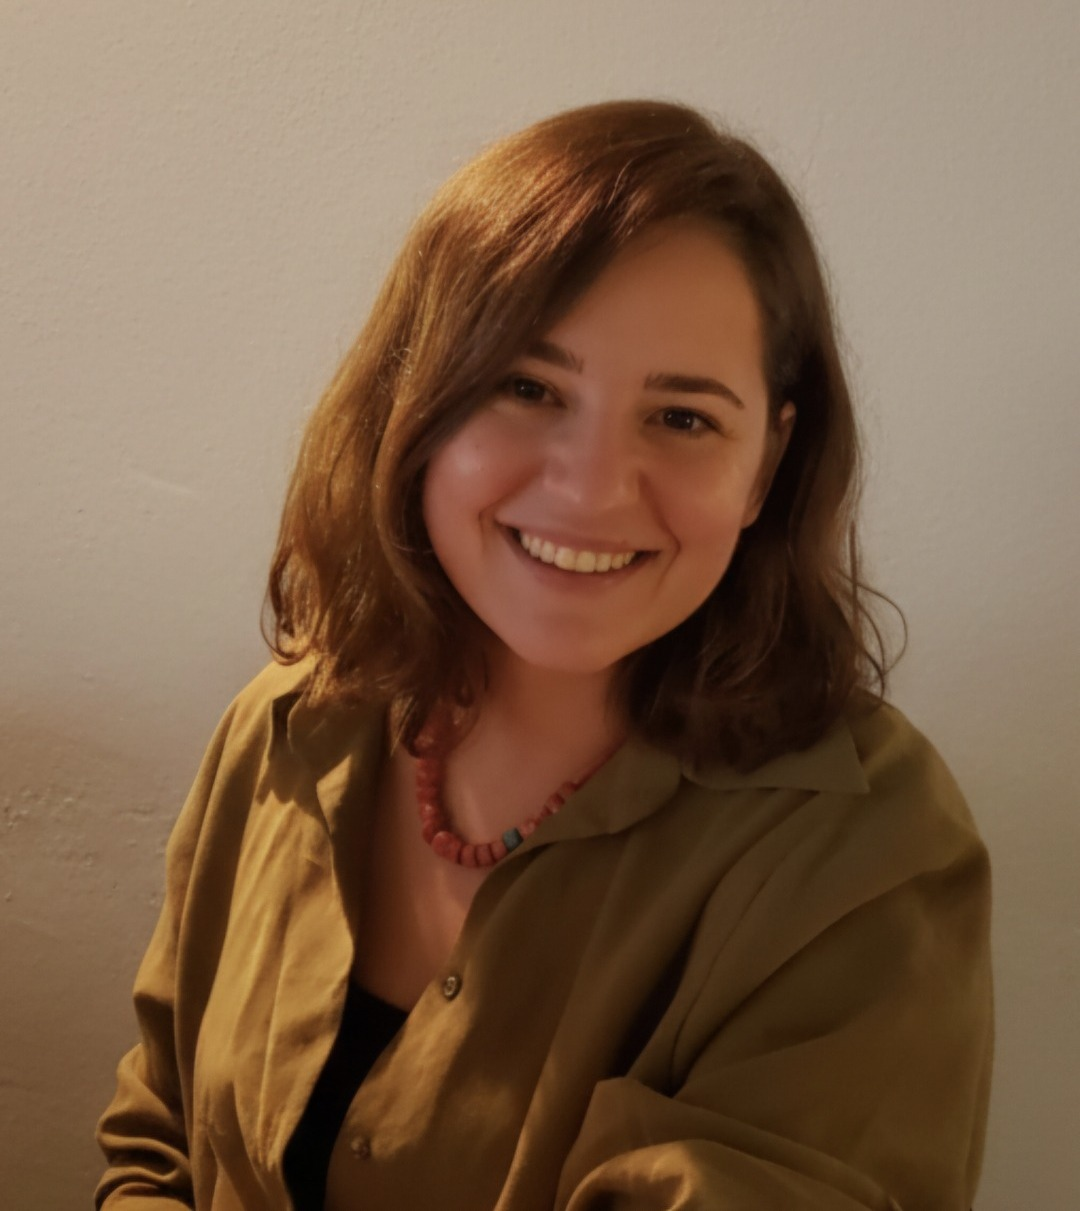
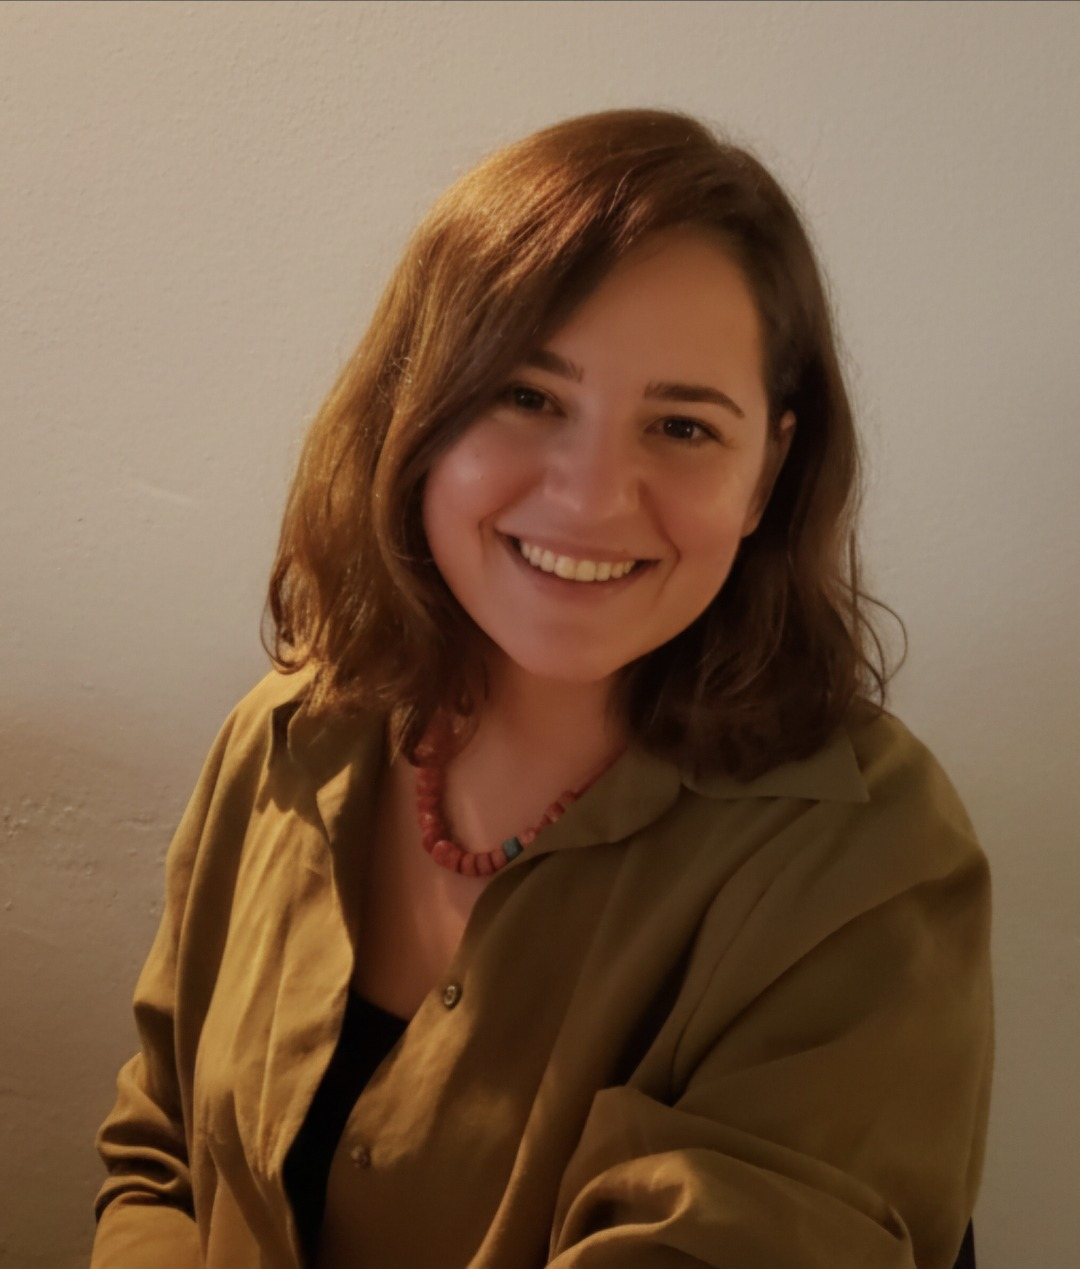
Gercek fotografla entegre kapak sablonu
- Didem'in portresi bulundu (yuklenen dosyalardan), siyah seritler kirpildi,
  .claude/assets/foto/didem-portre.jpg olarak kaydedildi
- karusel-kapak-foto-buyuk: buyuk entegre foto + blob + onizleme kartlari +
  iki renkli kalin baslik (techwith.ram referansindan, marka paletiyle)
- brand.css: .foto-blob, .blob, .foto-buyuk bilesenleri eklendi

Claude-Session: https://claude.ai/code/session_012LDHAuJWzUWKPnKFVYKoxF

diff --git a/.claude/templates/karusel-kapak-foto-buyuk.html b/.claude/templates/karusel-kapak-foto-buyuk.html
@@ -1,0 +1,32 @@
+<!-- KARUSEL KAPAK — FOTOGRAF + BLOB + ONIZLEME.
+     Referans: techwith.ram tarzi (buyuk entegre foto, kalin iki renkli baslik,
+     onizleme kartlari) ama Grow with Tech paletiyle (Quicksand, mor/sari, uydurma
+     logo yok). Foto: .claude/assets/foto/didem-portre.jpg -->
+<!doctype html><html lang="tr"><head><meta charset="utf-8">
+<link rel="stylesheet" href="brand.css"></head><body>
+<div class="slayt tema-mor foto-blob">
+  <div class="blob" style="width:620px;height:620px;right:-140px;top:120px"></div>
+
+  <div class="ilerleme">
+    <div class="cizgiler"><div class="c1"></div><div class="c2"></div></div>
+    <div class="rozet">1/7</div>
+  </div>
+
+  <div class="govde govde-ust">
+    <div class="baslik-blok" style="font-size:70px; max-width:78%">Bu hafta<br><em>kapasite</em><br>genişliyor.</div>
+    <p class="soluk" style="max-width:56%; margin-top:8px">Yapay zekânın değeri sandığımızdan farklı bir yerde.</p>
+  </div>
+
+  <div class="foto-buyuk"><img src="../assets/foto/didem-portre.jpg" alt=""></div>
+
+  <div class="kartlar-alt onizlemeler" style="max-width:60%">
+    <div class="onizleme"><div class="baslik">Neden sadece hız değil</div><div class="no">3/7</div></div>
+    <div class="onizleme"><div class="baslik">Kapasite ne demek</div><div class="no">5/7</div></div>
+  </div>
+
+  <div class="alt" style="position:relative; z-index:2; border-top:none; padding-top:14px">
+    <span>Grow with Tech</span>
+    <span class="sayfa">01 / 07</span>
+  </div>
+</div>
+</body></html>

diff --git a/.claude/templates/brand.css b/.claude/templates/brand.css
@@ -282,3 +282,22 @@ li b { color: var(--aksan); font-weight: 700; flex-shrink: 0; }
 }
 .baslik-blok em { font-style: normal; color: var(--aksan); }
 .tema-koyu .baslik-blok { color: #fff; }
+
+
+/* ============ KAPAK: FOTOGRAF BUYUK + BLOB ============
+   Referans: buyuk entegre fotograf, arkasinda yumusak renk lekesi,
+   on planda kucuk onizleme kartlari. Foto .claude/assets/foto/ altinda olmali. */
+.slayt.foto-blob { position: relative; overflow: hidden; }
+.slayt.foto-blob .blob {
+  position: absolute; z-index: 0; border-radius: 42% 58% 63% 37% / 45% 41% 59% 55%;
+  background: var(--aksan); opacity: .16; filter: blur(2px);
+}
+.slayt.foto-blob .foto-buyuk {
+  position: absolute; z-index: 1; right: 0; bottom: 0;
+  width: 62%; height: 68%; overflow: hidden;
+  -webkit-mask-image: linear-gradient(to left, black 78%, transparent 100%);
+  mask-image: linear-gradient(to left, black 78%, transparent 100%);
+}
+.slayt.foto-blob .foto-buyuk img { width: 100%; height: 100%; object-fit: cover; object-position: center 18%; }
+.slayt.foto-blob .govde-ust { position: relative; z-index: 2; padding-top: 8px; }
+.slayt.foto-blob .kartlar-alt { position: relative; z-index: 2; margin-top: auto; }
